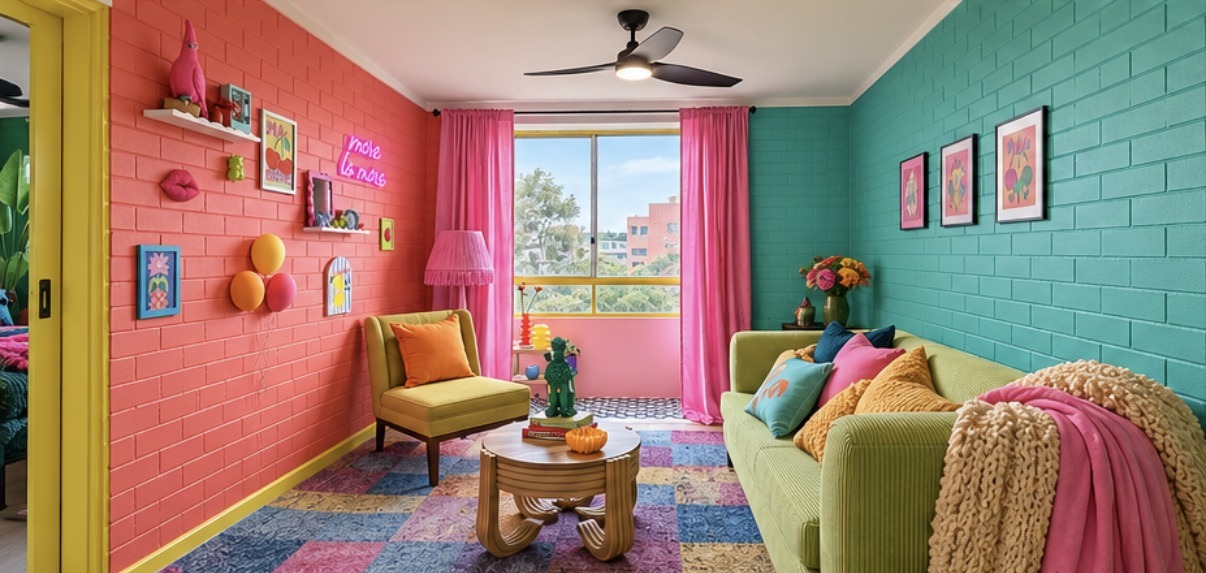
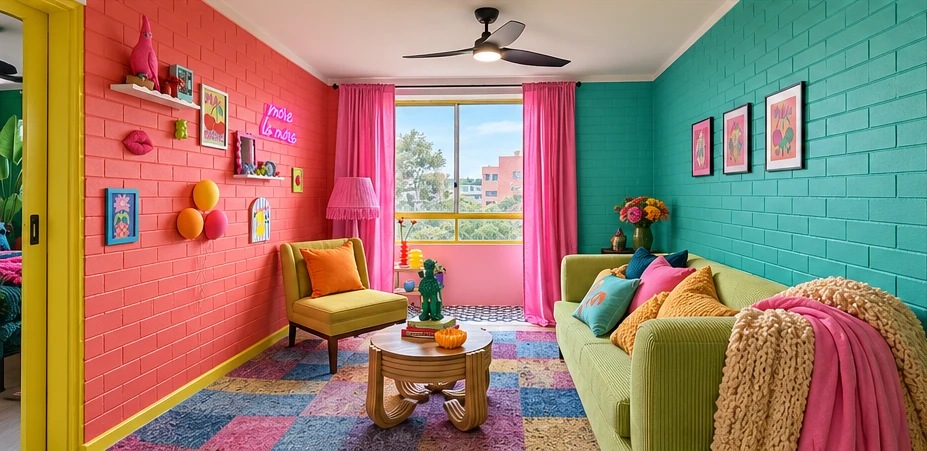
Use the new living-room photo for the hero and the Living Space slide
Hero crop keeps the coral wall and neon; the carousel crop shows the
sofa and teal wall so the two views differ.

Claude-Session: https://claude.ai/code/session_01PnNNF6hF746h5ScGdyrSog

diff --git a/stays/index.html b/stays/index.html
@@ -357,7 +357,7 @@
       <div class="carousel-stage" id="carousel-stage">
         <figure class="carousel-slide"><div class="carousel-pic"><img src="../assets/photos/bedroom.jpg" loading="lazy" alt="The Bedroom" onerror="this.style.display='none'"></div><figcaption>The Bedroom</figcaption></figure>
         <figure class="carousel-slide"><div class="carousel-pic"><img src="../assets/photos/creator-corner.jpg" loading="lazy" alt="Creator Corner" onerror="this.style.display='none'"></div><figcaption>Creator Corner</figcaption></figure>
-        <figure class="carousel-slide"><div class="carousel-pic"><img src="../assets/photos/living-space.jpg" loading="lazy" alt="Living Space" onerror="this.style.display='none'"></div><figcaption>Living Space</figcaption></figure>
+        <figure class="carousel-slide"><div class="carousel-pic"><img src="../assets/photos/living-space.jpg" style="object-position:82% 50%" loading="lazy" alt="Living Space" onerror="this.style.display='none'"></div><figcaption>Living Space</figcaption></figure>
         <figure class="carousel-slide"><div class="carousel-pic"><img src="../assets/photos/neon-details.jpg" style="object-position:80% 50%" loading="lazy" alt="The Details" onerror="this.style.display='none'"></div><figcaption>The Details</figcaption></figure>
         <figure class="carousel-slide"><div class="carousel-pic"><img src="../assets/photos/kitchen.jpg" loading="lazy" alt="Kitchen" onerror="this.style.display='none'"></div><figcaption>Kitchen</figcaption></figure>
         <figure class="carousel-slide"><div class="carousel-pic"><img src="../assets/photos/bathroom.jpg" loading="lazy" alt="Bathroom" onerror="this.style.display='none'"></div><figcaption>Bathroom</figcaption></figure>
